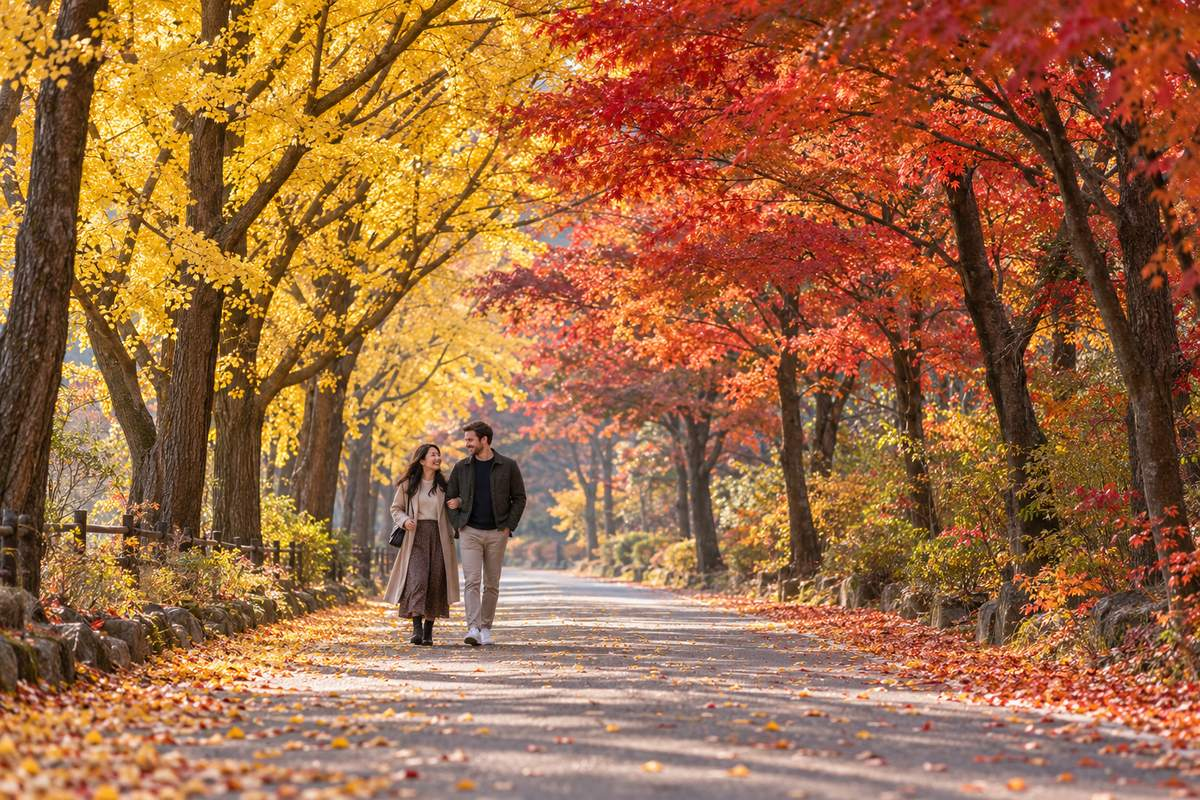
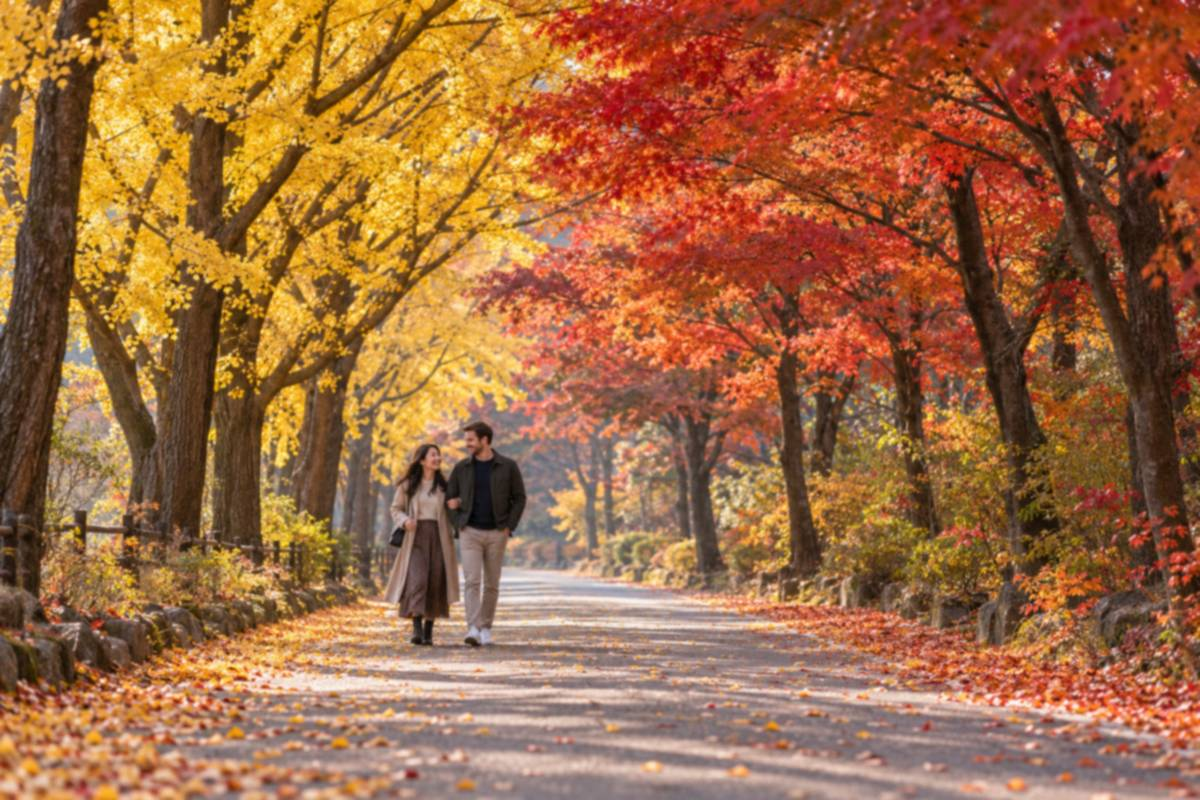
배너를 넣을 때 규격을 맞춘다 — 나중에 조절하지 않는다
사장님: "이미지 크기 조절해서 넣어 그전처럼 그냥 넣고 나중에 조절하지 말고"

맞는 지적이었다. 단풍길만 218KB 로 들어갔는데 내가 「그대로 둔다」고 넘겼다.
그게 「나중에 조절」이다. 손으로 넣으면 장마다 품질이 달라진다.

① scripts/add-banner.py — 넣는 도구.
   1200x800 · 180KB 이하 · 품질 70 이상.
   품질만 낮춰 180KB 를 맞추려 하면 잎·돌 같은 잔무늬가 뭉개진다. 그래서
   품질 70 밑으로는 안 내리고, 대신 아주 약하게 매끄럽게 해서 바이트를 먹는
   잔무늬를 먼저 줄인다. 단풍길이 그 길로 218KB → 161KB 가 됐다(눈에는 거의 같다).
   비율이 3:2 가 아니면 경고한다.

② 네 장을 전부 이 도구로 다시 통과시켰다. 161~176KB 한 규격이 됐다.

③ scripts/check-banner-size.mjs + 배포에 걸었다.
   1200x800 이 아니거나 180KB 를 넘으면 막는다. 라이브러리 없이 JPEG 머리에서
   가로·세로를 직접 읽는다. 울려 봤다 — 품질 95 로 덮으면 종료코드 1, 되돌리면 0.

🐞 반복문에 또 한글 변수명을 썼다가 bash 에서 깨졌다.
   CLAUDE.md 에 적혀 있는 함정인데 그대로 밟았다. ASCII 로 고쳤다.

Claude-Session: https://claude.ai/code/session_01A7xqiK6zVBc7iEkScg4rVL

diff --git a/scripts/add-banner.py b/scripts/add-banner.py
@@ -1,0 +1,54 @@
+#!/usr/bin/env python3
+# 🖼 **배너 그림을 늘 같은 규격으로 넣는다.**
+#
+# 사장님 (2026-10-18): *"이미지 크기 조절해서 넣어 그전처럼 그냥 넣고 나중에 조절하지 말고"*
+#
+# 🧭 왜 도구로 만드나 — 손으로 넣으면 장마다 품질이 달라진다. 실제로 단풍길만
+#    218KB 로 들어갔고(낙엽이 잘아 압축이 안 먹는다) 나는 그걸 「그대로 둔다」고 했다.
+#    그게 「나중에 조절」이다. **넣는 순간에 맞춰야 한다.**
+#
+# 📐 규격 — 1200x800 (3:2) · JPG · **180KB 이하** · 품질 70 이상
+#    · 품질만 낮춰 180KB 를 맞추려 하면 잎·돌 같은 잔무늬에서 뭉개짐이 보인다.
+#      그래서 **품질 70 밑으로는 안 내리고**, 대신 아주 약하게 매끄럽게 해서
+#      바이트를 먹는 잔무늬를 먼저 줄인다. 눈에는 거의 안 보이고 용량은 크게 준다.
+#
+#   python3 scripts/add-banner.py <받은파일> <이름>
+#   예: python3 scripts/add-banner.py ~/다운로드/a.png autumn-road
+
+import sys, os
+from PIL import Image, ImageFilter
+
+한도 = 180 * 1024
+가로, 세로 = 1200, 800
+최소품질 = 70
+
+def 넣기(src: str, 이름: str) -> None:
+    out = os.path.join("public", "images", "banner", f"{이름}.jpg")
+    원본 = os.path.getsize(src)
+    im = Image.open(src).convert("RGB")
+    w, h = im.size
+    if abs(w / h - 1.5) > 0.01:
+        print(f"⚠ 비율이 {w/h:.3f} 다 (3:2 = 1.500). 잘리거나 눌린다 — 확인할 것")
+    im = im.resize((가로, 세로), Image.LANCZOS)
+
+    # ① 품질만 낮춰 본다 (70 까지)
+    for q in (82, 78, 74, 70):
+        im.save(out, "JPEG", quality=q, optimize=True, progressive=True, subsampling=2)
+        if os.path.getsize(out) <= 한도:
+            print(f"✅ {이름}.jpg — {원본//1024}KB → {os.path.getsize(out)//1024}KB (품질 {q})")
+            return
+    # ② 아직 크면 잔무늬를 아주 약하게 줄이고 다시
+    for 반경, q in ((0.4, 74), (0.6, 74), (0.8, 72), (1.0, 70)):
+        순 = im.filter(ImageFilter.GaussianBlur(radius=반경))
+        순.save(out, "JPEG", quality=q, optimize=True, progressive=True, subsampling=2)
+        if os.path.getsize(out) <= 한도:
+            print(f"✅ {이름}.jpg — {원본//1024}KB → {os.path.getsize(out)//1024}KB "
+                  f"(품질 {q} · 잔무늬 {반경} 만큼 줄임)")
+            return
+    print(f"⚠ {이름}.jpg — {os.path.getsize(out)//1024}KB 로 한도({한도//1024}KB)를 못 맞췄다. "
+          f"그림이 유난히 잘다 — 사람이 볼 것")
+
+if __name__ == "__main__":
+    if len(sys.argv) != 3:
+        print("쓰는 법: python3 scripts/add-banner.py <받은파일> <이름>"); sys.exit(1)
+    넣기(sys.argv[1], sys.argv[2])
